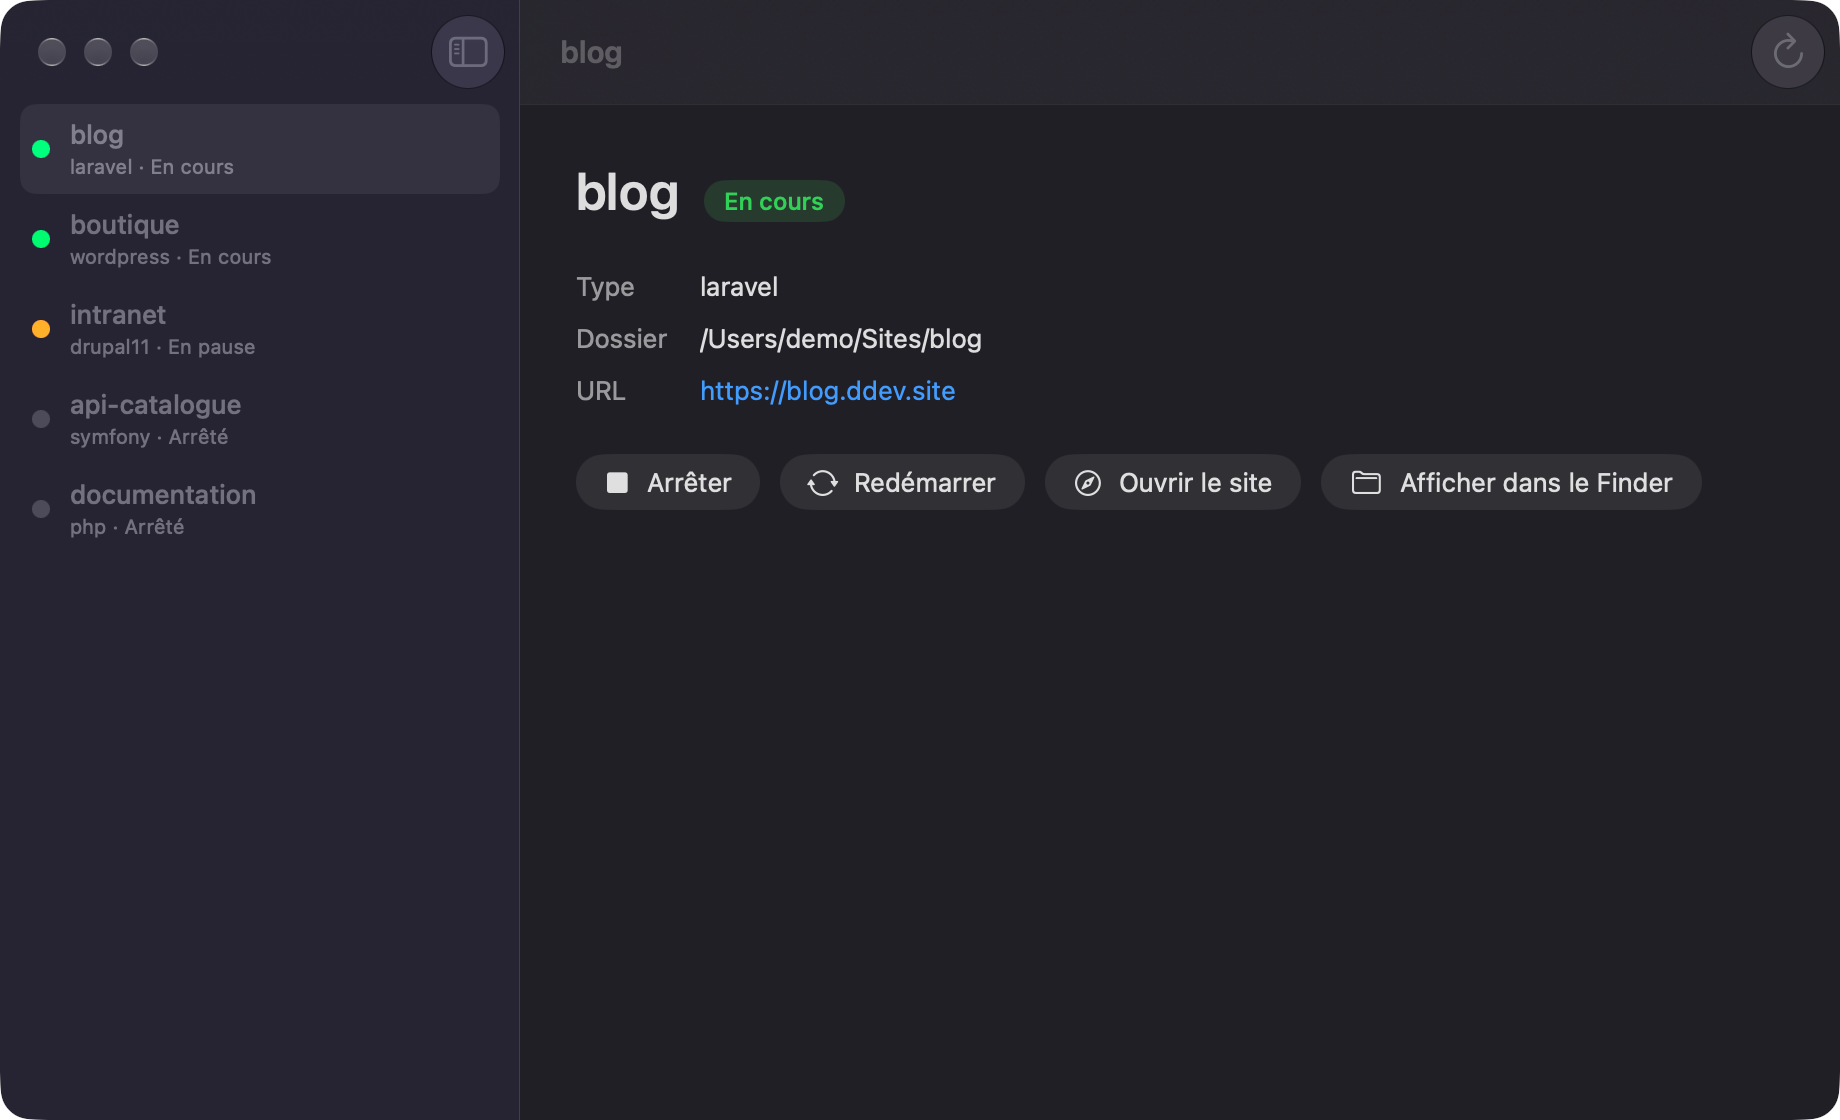
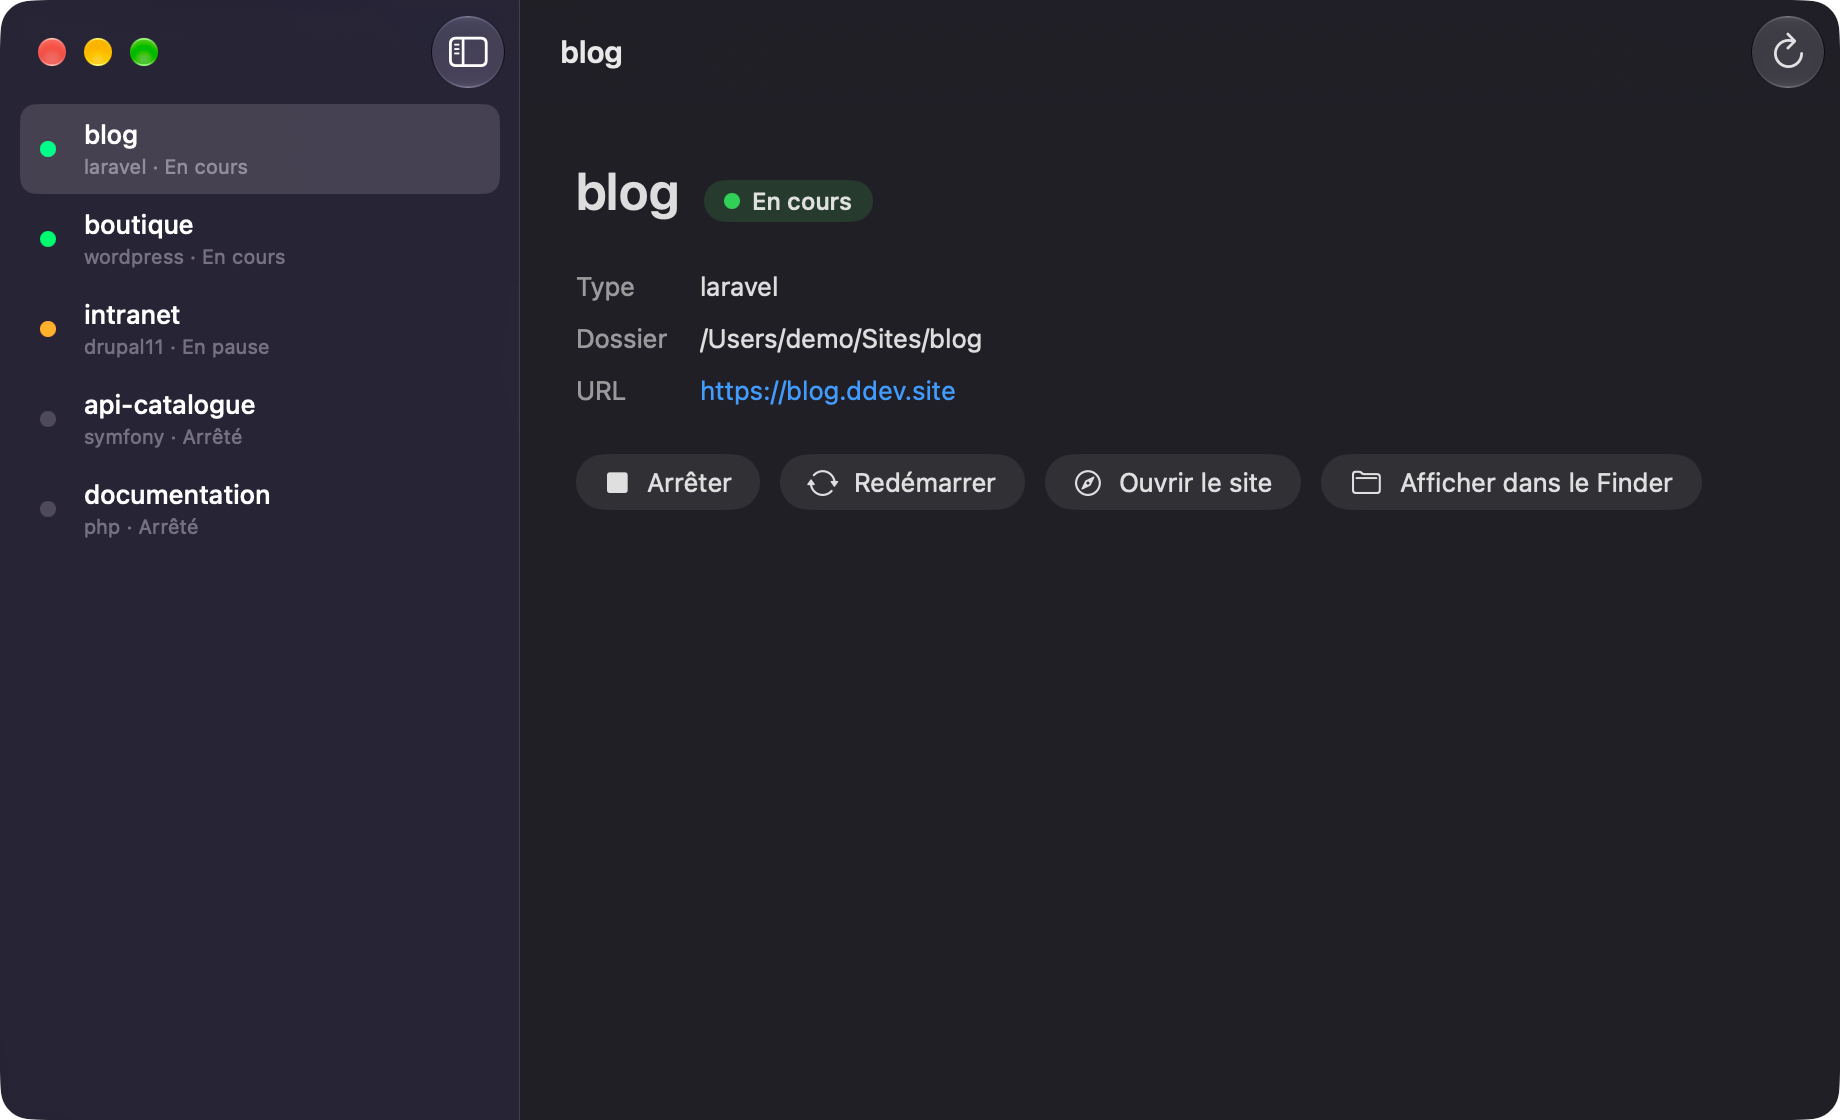
Corrige l'accessibilité de l'interface et l'arrêt des appels ddev bloqués
- Badge d'état : couleur sur la pastille, texte en couleur principale
  (le vert et l'orange système passaient sous 3:1 en mode clair)
- Lignes de la liste lues en un seul élément par VoiceOver, indicateur
  d'action étiqueté et de largeur fixe (plus de décalage du texte)
- Actions désactivées pendant une action, y compris dans le menu contextuel ;
  Redémarrer seulement pour un projet en cours ; chemin complet en infobulle
- SystemProcessRunner : SIGKILL deux secondes après SIGTERM, car ddev reste
  bloqué quand macOS attend une autorisation d'accès au dossier Documents
- Message de délai dépassé qui mentionne les autorisations macOS
- Tests du vrai SystemProcessRunner (sortie, environnement, arrêt forcé)
- README : nouvelles captures (clair, sombre, ddev sans réponse), autorisation Documents

diff --git a/DDEVApp/DDEVApp/Views/ProjectActionButtons.swift b/DDEVApp/DDEVApp/Views/ProjectActionButtons.swift
@@ -9,35 +9,39 @@ struct ProjectActionButtons: View {
     let project: DDEVProject
 
     var body: some View {
-        if project.status == .running {
-            Button {
-                Task { await store.stop(project) }
-            } label: {
-                Label("Arrêter", systemImage: "stop.fill")
-            }
-        } else {
-            Button {
-                Task { await store.start(project) }
-            } label: {
-                Label("Démarrer", systemImage: "play.fill")
-            }
-            .buttonStyle(.borderedProminent)
-        }
+        Group {
+            if project.status == .running {
+                Button {
+                    Task { await store.stop(project) }
+                } label: {
+                    Label("Arrêter", systemImage: "stop.fill")
+                }
 
-        Button {
-            Task { await store.restart(project) }
-        } label: {
-            Label("Redémarrer", systemImage: "arrow.triangle.2.circlepath")
-        }
-
-        if let url = project.primaryURL {
-            Button {
-                openURL(url)
-            } label: {
-                Label("Ouvrir le site", systemImage: "safari")
+                Button {
+                    Task { await store.restart(project) }
+                } label: {
+                    Label("Redémarrer", systemImage: "arrow.triangle.2.circlepath")
+                }
+            } else {
+                Button {
+                    Task { await store.start(project) }
+                } label: {
+                    Label("Démarrer", systemImage: "play.fill")
+                }
+                .buttonStyle(.borderedProminent)
             }
-            .disabled(project.status != .running)
+
+            if let url = project.primaryURL {
+                Button {
+                    openURL(url)
+                } label: {
+                    Label("Ouvrir le site", systemImage: "safari")
+                }
+                .disabled(project.status != .running)
+                .help(project.status == .running ? url.absoluteString : "Démarrez le projet pour ouvrir le site")
+            }
         }
+        .disabled(store.isBusy(project))
 
         Button {
             NSWorkspace.shared.activateFileViewerSelecting([URL(fileURLWithPath: project.appRoot)])

diff --git a/Tests/DDEVKitTests/SystemProcessRunnerTests.swift b/Tests/DDEVKitTests/SystemProcessRunnerTests.swift
@@ -1,0 +1,53 @@
+import XCTest
+@testable import DDEVKit
+
+/// Lance de vrais processus `/bin/sh` : vérifie la lecture des tubes et l'arrêt forcé.
+final class SystemProcessRunnerTests: XCTestCase {
+    private let shell = URL(fileURLWithPath: "/bin/sh")
+
+    func testCapturesOutputAndExitCode() async throws {
+        let output = try await SystemProcessRunner().run(
+            shell,
+            arguments: ["-c", "echo sortie; echo erreur >&2; exit 3"],
+            environment: nil
+        )
+
+        XCTAssertEqual(output.exitCode, 3)
+        XCTAssertEqual(String(decoding: output.stdout, as: UTF8.self), "sortie\n")
+        XCTAssertEqual(String(decoding: output.stderr, as: UTF8.self), "erreur\n")
+    }
+
+    func testPassesEnvironment() async throws {
+        let output = try await SystemProcessRunner().run(
+            shell,
+            arguments: ["-c", "printf %s \"$DDEVKIT_TEST\""],
+            environment: ["DDEVKIT_TEST": "ok"]
+        )
+
+        XCTAssertEqual(String(decoding: output.stdout, as: UTF8.self), "ok")
+    }
+
+    func testMissingExecutableThrowsNotFound() async {
+        do {
+            _ = try await SystemProcessRunner().run(URL(fileURLWithPath: "/nowhere/ddev"), arguments: [], environment: nil)
+            XCTFail("Une erreur était attendue")
+        } catch {
+            XCTAssertEqual(error as? ProcessRunnerError, .executableNotFound("/nowhere/ddev"))
+        }
+    }
+
+    func testCancellationKillsProcessThatIgnoresSIGTERM() async throws {
+        let started = ContinuousClock.now
+        let shell = shell
+        let task = Task {
+            try await SystemProcessRunner().run(shell, arguments: ["-c", "trap '' TERM; exec sleep 30"], environment: nil)
+        }
+        try await Task.sleep(for: .milliseconds(300))
+        task.cancel()
+
+        let output = try await task.value
+
+        XCTAssertLessThan(ContinuousClock.now - started, .seconds(10))
+        XCTAssertNotEqual(output.exitCode, 0)
+    }
+}

diff --git a/DDEVApp/DDEVApp/Views/ProjectRow.swift b/DDEVApp/DDEVApp/Views/ProjectRow.swift
@@ -7,13 +7,17 @@ struct ProjectRow: View {
 
     var body: some View {
         HStack(spacing: 10) {
-            if store.isBusy(project) {
-                ProgressView().controlSize(.small)
-            } else {
-                Circle()
-                    .fill(project.status.color)
-                    .frame(width: 9, height: 9)
+            // Largeur fixe : l'indicateur d'action est plus large que la pastille et décalerait le texte.
+            Group {
+                if store.isBusy(project) {
+                    ProgressView()
+                        .controlSize(.small)
+                        .accessibilityLabel("Action en cours")
+                } else {
+                    StatusDot(status: project.status)
+                }
             }
+            .frame(width: 16)
             VStack(alignment: .leading, spacing: 2) {
                 Text(project.name).font(.body.weight(.medium))
                 Text(project.type.isEmpty ? project.status.label : "\(project.type) · \(project.status.label)")
@@ -22,5 +26,6 @@ struct ProjectRow: View {
             }
         }
         .padding(.vertical, 3)
+        .accessibilityElement(children: .combine)
     }
 }

diff --git a/DDEVApp/DDEVApp/Views/ProjectDetailView.swift b/DDEVApp/DDEVApp/Views/ProjectDetailView.swift
@@ -14,7 +14,6 @@ struct ProjectDetailView: View {
                     ProjectActionButtons(project: project)
                 }
                 .controlSize(.large)
-                .disabled(store.isBusy(project))
             }
             .padding(28)
             .frame(maxWidth: .infinity, alignment: .leading)
@@ -27,7 +26,9 @@ struct ProjectDetailView: View {
             Text(project.name).font(.largeTitle.weight(.semibold))
             StatusBadge(status: project.status)
             if store.isBusy(project) {
-                ProgressView().controlSize(.small)
+                ProgressView()
+                    .controlSize(.small)
+                    .accessibilityLabel("Action en cours")
             }
         }
     }
@@ -44,6 +45,7 @@ struct ProjectDetailView: View {
                     .textSelection(.enabled)
                     .lineLimit(1)
                     .truncationMode(.middle)
+                    .help(project.appRoot)
             }
             GridRow {
                 Text("URL").foregroundStyle(.secondary)

diff --git a/DDEVApp/DDEVApp/Views/StatusBadge.swift b/DDEVApp/DDEVApp/Views/StatusBadge.swift
@@ -1,16 +1,31 @@
 import DDEVKit
 import SwiftUI
 
+/// La couleur reste sur la pastille : en texte, le vert et l'orange système
+/// passent sous 3:1 en mode clair.
 struct StatusBadge: View {
     let status: DDEVProjectStatus
 
     var body: some View {
-        Text(status.label)
-            .font(.callout.weight(.medium))
-            .padding(.horizontal, 10)
-            .padding(.vertical, 3)
-            .foregroundStyle(status.color)
-            .background(status.color.opacity(0.15), in: Capsule())
+        HStack(spacing: 6) {
+            StatusDot(status: status)
+            Text(status.label)
+        }
+        .font(.callout.weight(.medium))
+        .padding(.horizontal, 10)
+        .padding(.vertical, 3)
+        .background(status.color.opacity(0.15), in: Capsule())
+    }
+}
+
+struct StatusDot: View {
+    let status: DDEVProjectStatus
+
+    var body: some View {
+        Circle()
+            .fill(status.color)
+            .frame(width: 8, height: 8)
+            .accessibilityHidden(true)
     }
 }
 

diff --git a/Sources/DDEVKit/Process/SystemProcessRunner.swift b/Sources/DDEVKit/Process/SystemProcessRunner.swift
@@ -35,6 +35,12 @@ public struct SystemProcessRunner: ProcessRunning {
             return ProcessOutput(exitCode: await exit.value, stdout: out, stderr: err)
         } onCancel: {
             process.terminate()
+            // ddev intercepte SIGTERM et reste bloqué si un appel système attend,
+            // par exemple une demande d'accès macOS au dossier Documents.
+            let pid = process.processIdentifier
+            DispatchQueue.global().asyncAfter(deadline: .now() + 2) {
+                if process.isRunning { kill(pid, SIGKILL) }
+            }
         }
     }
 

diff --git a/Sources/DDEVKit/DDEVError.swift b/Sources/DDEVKit/DDEVError.swift
@@ -20,7 +20,7 @@ extension DDEVError: LocalizedError {
         case .invalidJSON(let reason):
             "La sortie JSON de ddev est invalide : \(reason)"
         case .timedOut(let seconds):
-            "ddev ne répond pas après \(seconds) s. Vérifiez que Docker est démarré (Docker Desktop, OrbStack ou Colima)."
+            "ddev ne répond pas après \(seconds) s. Vérifiez que Docker est démarré (Docker Desktop, OrbStack ou Colima) et qu'aucune demande d'autorisation macOS n'attend votre réponse."
         }
     }
 }

diff --git a/DDEVApp/DDEVApp/Views/ContentView.swift b/DDEVApp/DDEVApp/Views/ContentView.swift
@@ -50,7 +50,7 @@ struct ContentView: View {
             }
         }
         .alert(
-            "ddev a renvoyé une erreur",
+            "L'opération DDEV a échoué",
             isPresented: Binding(get: { store.lastError != nil }, set: { if !$0 { store.lastError = nil } }),
             presenting: store.lastError
         ) { _ in

diff --git a/README.md b/README.md
@@ -14,13 +14,14 @@ Offrir une interface macOS native au-dessus de la CLI `ddev` : voir ses projets 
 - Fiche d'un projet : type, dossier, URL
 - Démarrer, arrêter, redémarrer un projet ; ouvrir le site ; afficher le dossier dans le Finder (aussi depuis le menu contextuel de la liste)
 - Rafraîchissement manuel (⌘R)
-- Message clair quand DDEV est introuvable ou que Docker ne répond pas
+- Message clair quand DDEV est introuvable ou ne répond pas (Docker arrêté, autorisation macOS en attente) ; le processus `ddev` bloqué est arrêté
+- Modes clair et sombre
 
-| Projet arrêté | Docker arrêté |
+| Projet arrêté (mode clair) | ddev ne répond pas |
 | --- | --- |
-| ![Fiche d'un projet arrêté](docs/screenshots/projet-arrete.png) | ![Message quand Docker ne répond pas](docs/screenshots/docker-arrete.png) |
+| ![Fiche d'un projet arrêté en mode clair](docs/screenshots/projet-arrete.png) | ![Message quand ddev ne répond pas](docs/screenshots/ddev-sans-reponse.png) |
 
-Les captures utilisent le mode démo (projets fictifs), sauf « Docker arrêté » prise avec une vraie installation.
+Les captures des projets utilisent le mode démo (projets fictifs) ; la dernière est prise avec une vraie installation.
 
 ## Prérequis
 
@@ -68,7 +69,9 @@ Dans Xcode : *Product > Scheme > Edit Scheme > Run > Arguments*, cochez `--demo`
 
 ## Distribution
 
-L'app n'utilise pas l'App Sandbox : un processus lancé par une app sandboxée hérite de son sandbox, et `ddev` doit pouvoir écrire dans `~/.ddev`, dans les dossiers des projets et joindre le socket Docker. Elle est donc prévue pour une distribution hors Mac App Store (Developer ID, notarisation, Hardened Runtime activé). Au premier accès à un projet rangé dans Documents, Bureau ou Téléchargements, macOS demande l'autorisation à DDEV-APP.
+L'app n'utilise pas l'App Sandbox : un processus lancé par une app sandboxée hérite de son sandbox, et `ddev` doit pouvoir écrire dans `~/.ddev`, dans les dossiers des projets et joindre le socket Docker. Elle est donc prévue pour une distribution hors Mac App Store (Developer ID, notarisation, Hardened Runtime activé).
+
+Au premier accès à un projet rangé dans Documents, Bureau ou Téléchargements, macOS demande l'autorisation à DDEV-APP. Tant que la demande reste sans réponse, `ddev` est bloqué : cliquez sur « Autoriser », puis sur « Réessayer » dans l'app. En développement, l'app est signée localement : macOS peut reposer la question après une recompilation.
 
 ## Feuille de route
 
@@ -81,7 +84,7 @@ L'app n'utilise pas l'App Sandbox : un processus lancé par une app sandboxée h
 
 ### 2. Surveillance Docker et DDEV
 
-- [x] Délai maximal sur `ddev list` quand Docker ne répond pas
+- [x] Délai maximal sur les appels `ddev`, avec arrêt forcé du processus bloqué
 - [ ] Flux d'events `docker events` pour rafraîchir l'état automatiquement
 - [ ] Détection du fournisseur Docker (Docker Desktop, OrbStack, Colima) et de son état
 - [ ] Notifications lors d'un changement d'état
